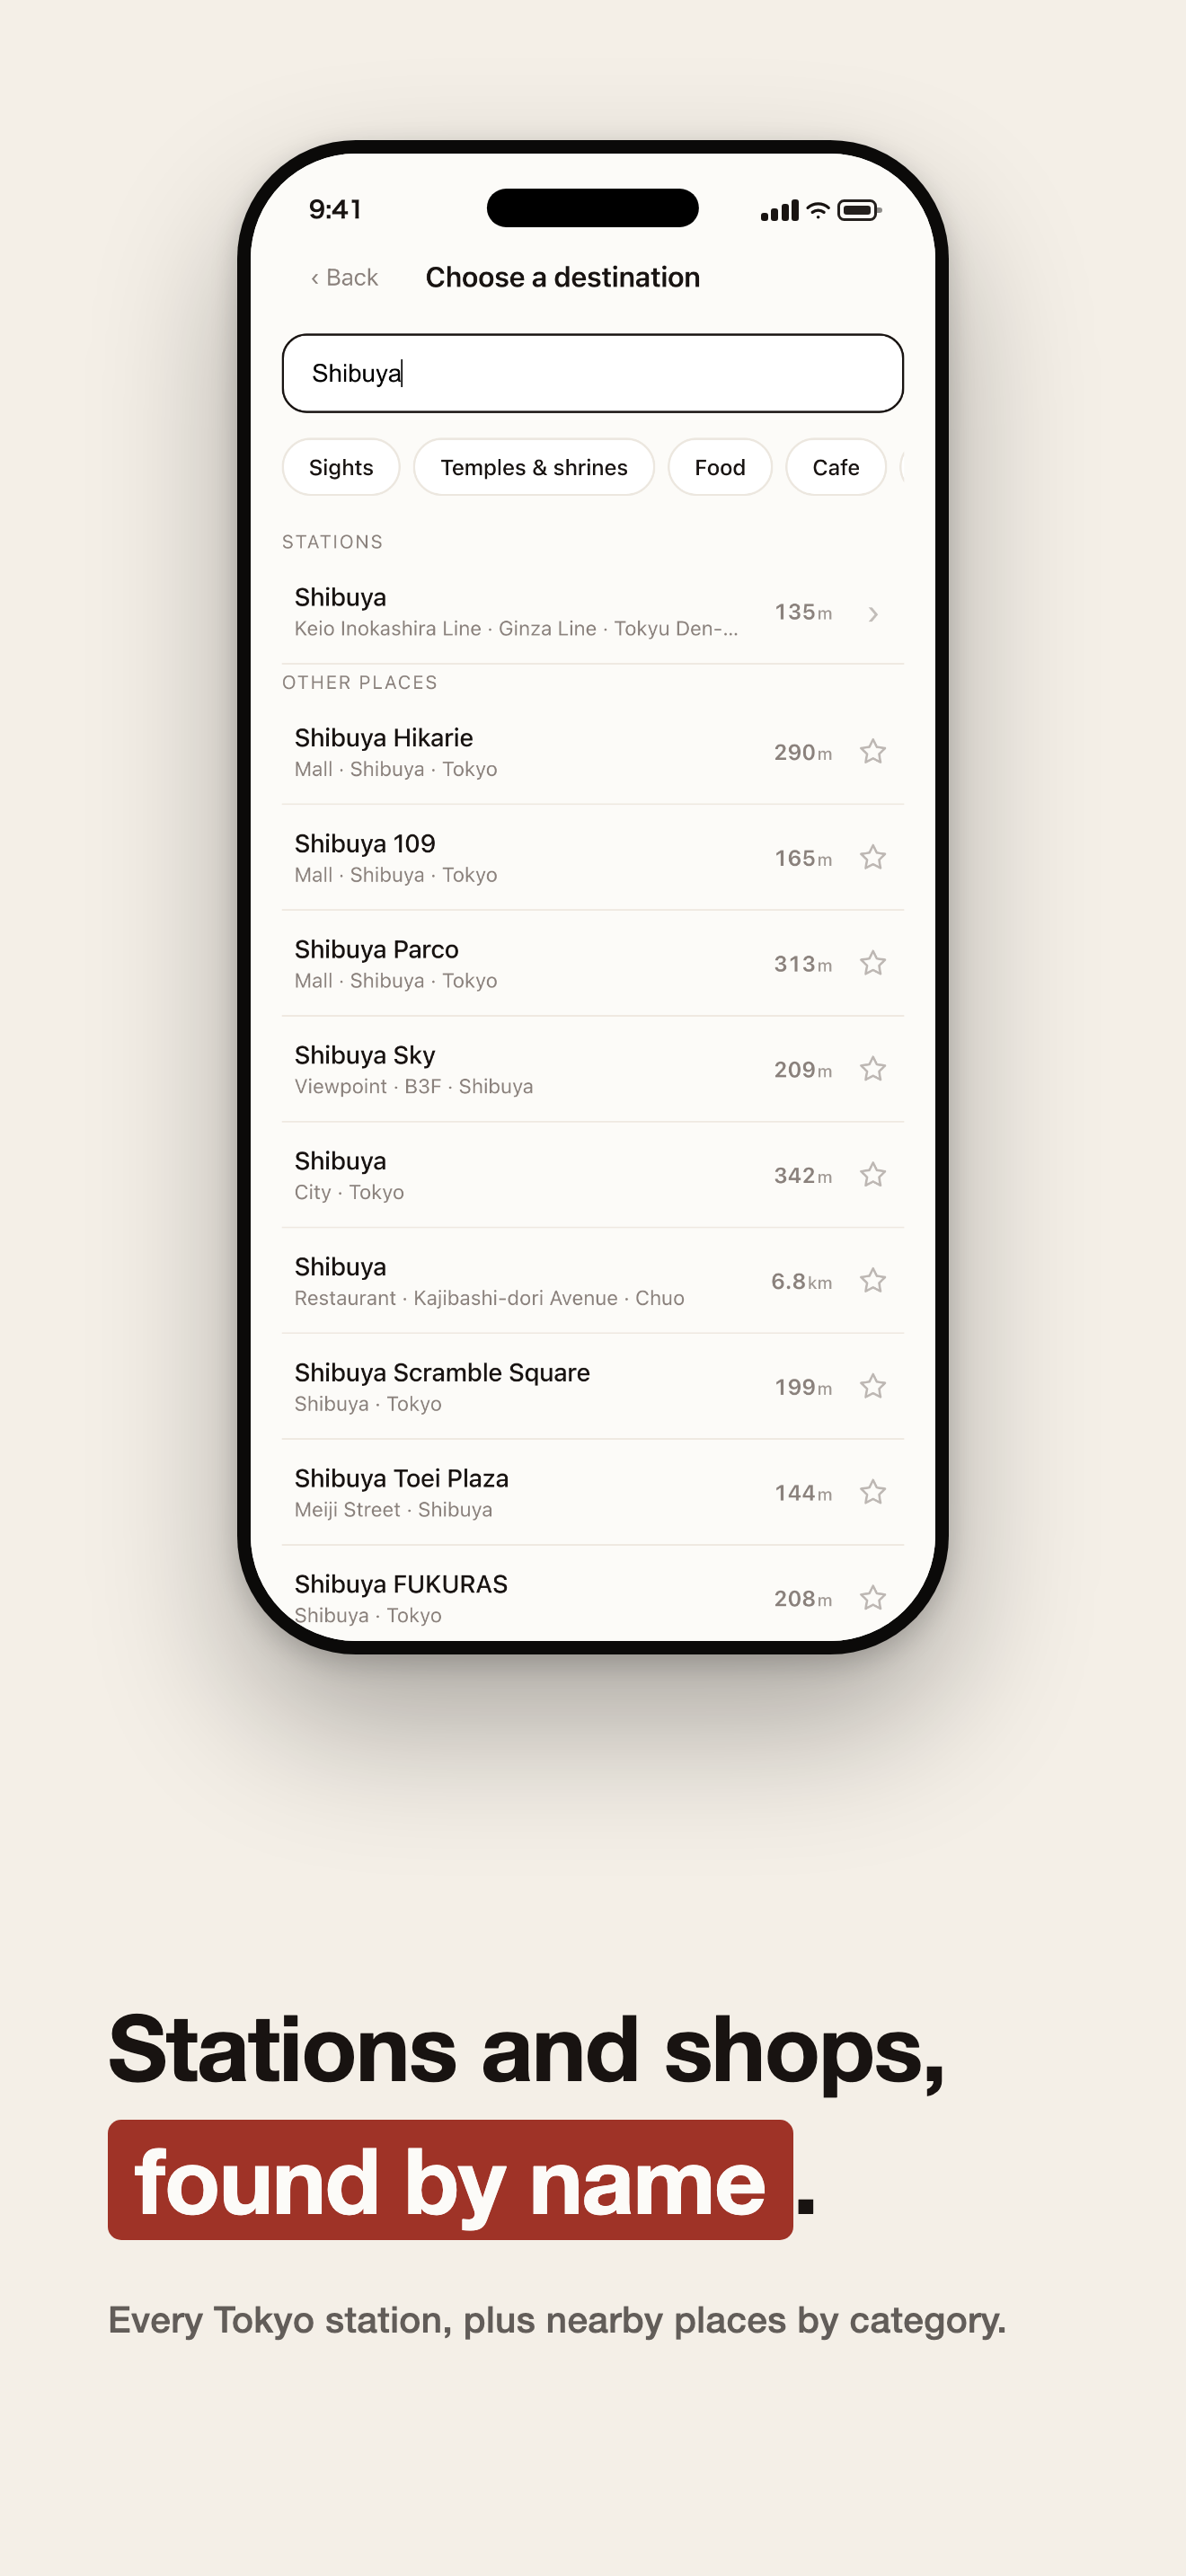
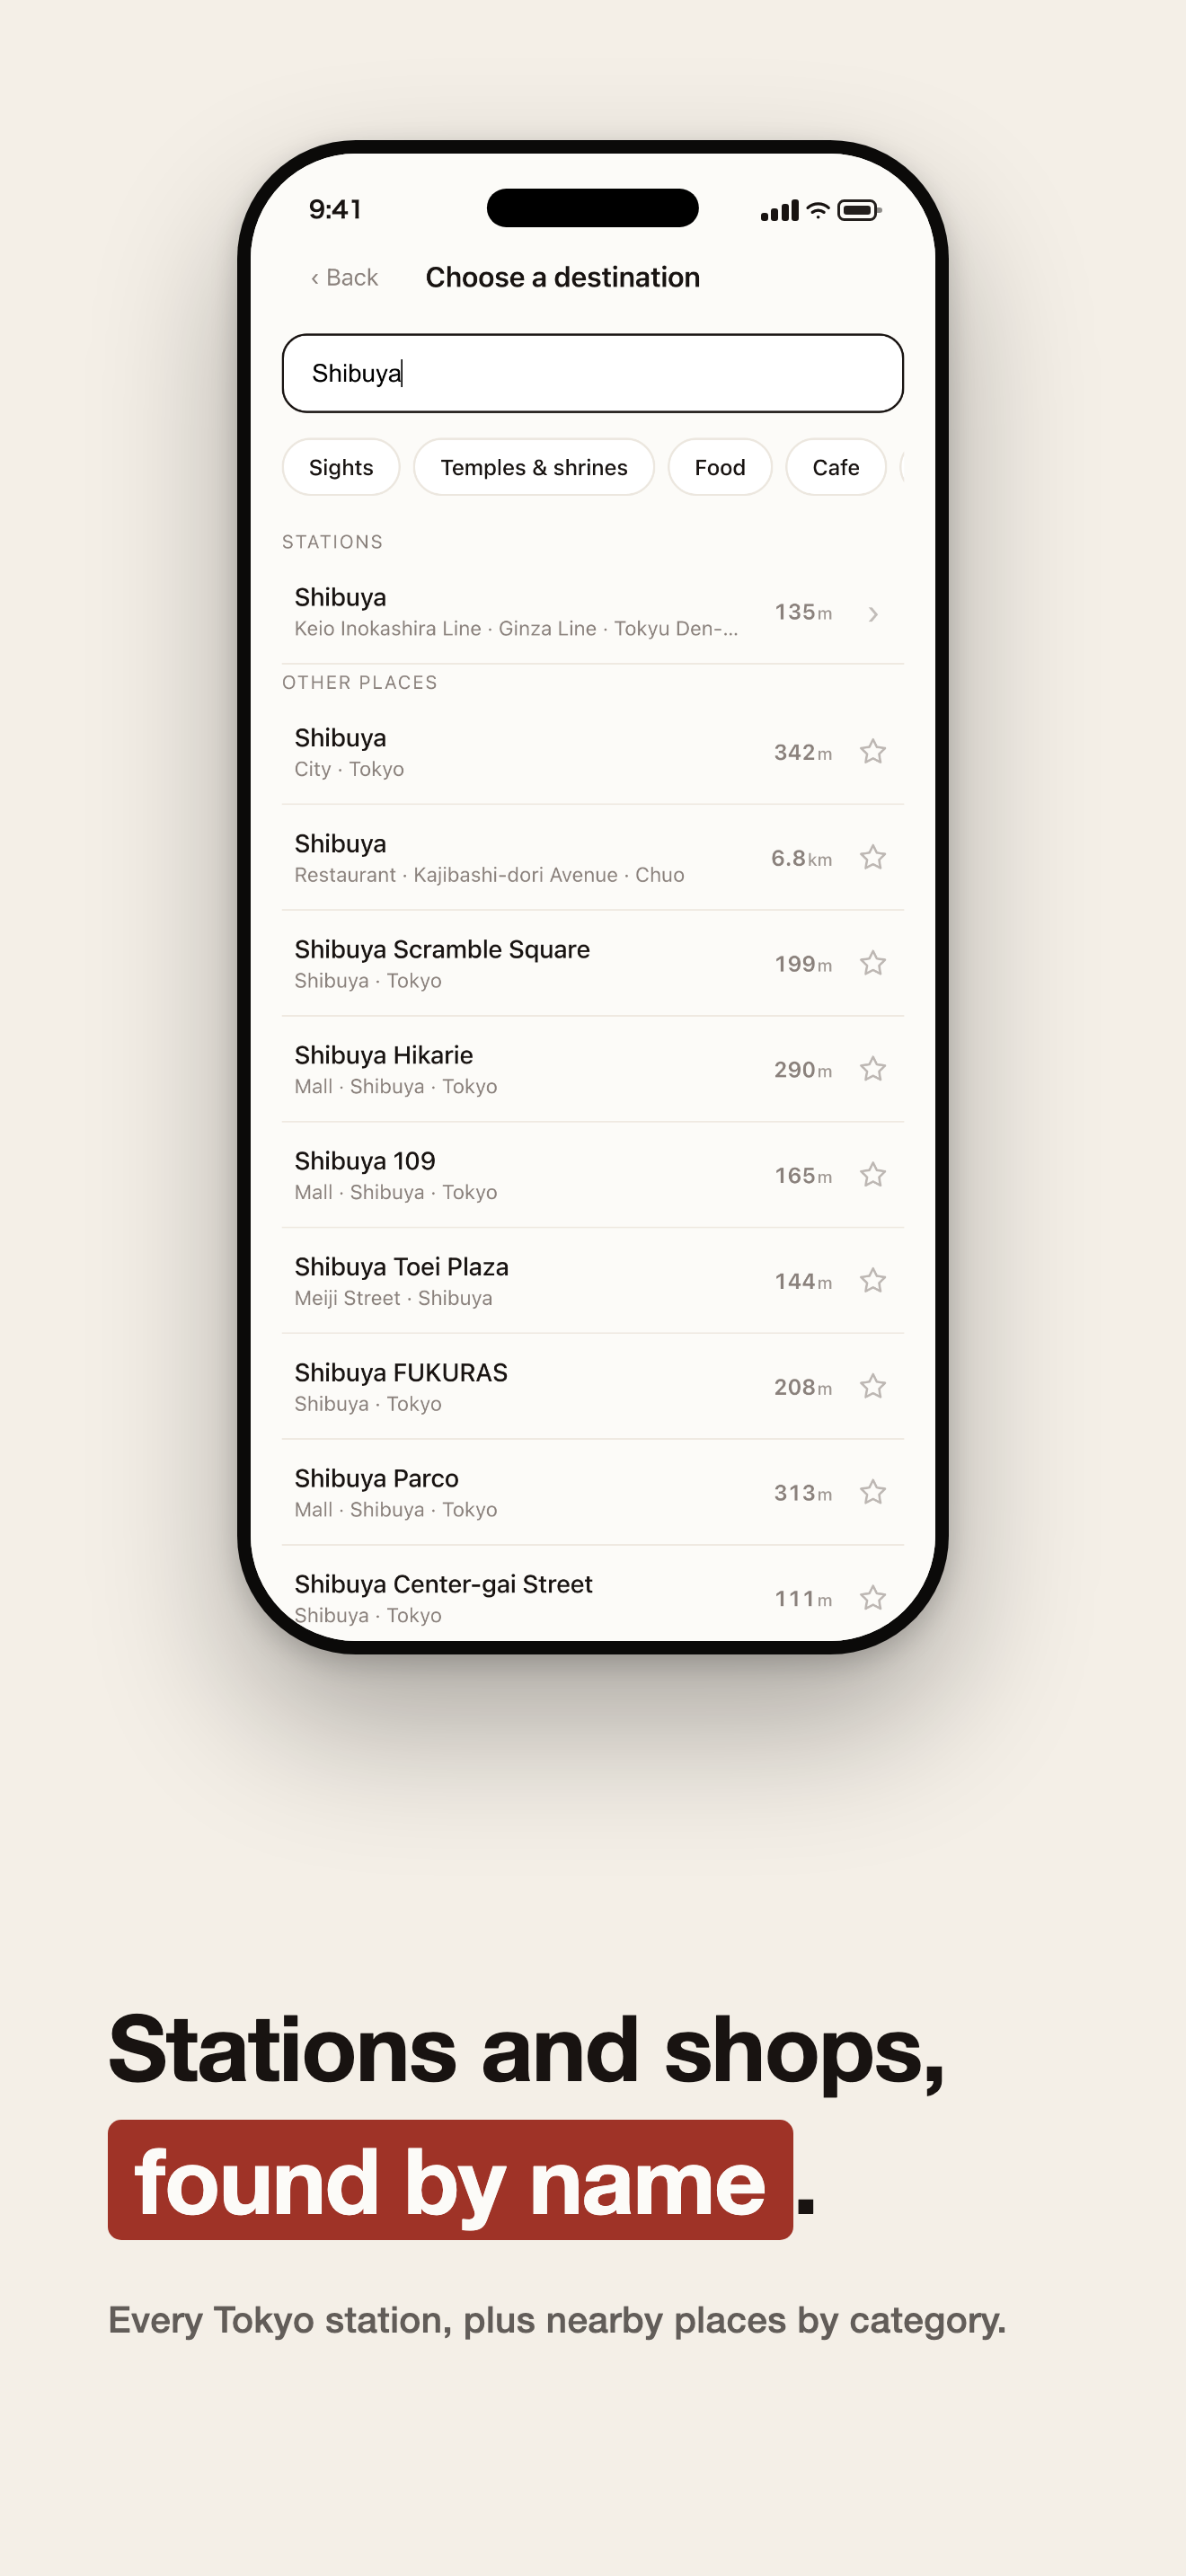
fix(search): レビューで判明した退行を修正（昇格の廃止・取得上限・重複排除）
マージ前レビューで、前コミットが main より悪化させている点が確認された。
原因は「観光地を +2 で昇格させる」設計そのもの。名前の一致度を壊していた。

1. スコアだけで全体を並べ替えており、距離も関連度も見ていなかった。
   実測: "Tokyo Tower" → 1位 Cerulean Tower Tokyo Hotel（本物が転落）、
   "Imperial Palace" → 5〜10位が海外の Imperial Palace Hotel（最大 9,146km）、
   "pharmacy" → 1位がトロントの地下鉄駅（10,344km）、
   "Ueno Park" → 1位 UENO PARK GUEST HOUSE で本物が圏外。
   → 昇格を廃止し、降格のみにした。名前の一致度は Photon の関連度が
     持っているので崩さない。安定ソートなので降格対象以外は元の順のまま。

2. 医療・警察・消防・役所を降格していた。旅行者が本当に困ったときに
   探すのはまさにそれで、危険。実測で "police" は警察博物館が、
   "hospital" は "Hospital Building C" が本物の病院より上に出ていた。
   → 降格対象から除外。都庁の展望室や国会議事堂も観光の行き先なので
     役所・議事堂・裁判所も外した。

3. Overpass の `out center 250` は「最寄り250件」ではなく
   「type→id 昇順の先頭250件」＝ OSM に古くから登録されている250件だった。
   渋谷の飲食店は範囲内に967件あり、最寄り24件のうち18件が欠落。
   way は一件も届かない。2013年以降に登録された店は永久に出なかった。
   → 件数上限を撤廃し、半径で抑えてこちらで距離順に並べる。
     密度の高い飲食店・カフェ・コンビニは半径 800m に（渋谷で 13.5秒 →
     1.7秒。表示は24件で 100m 圏に収まるため失うものは無い）。

4. 名前の無い地物は表示名がカテゴリ名で全部同じになるため、新設した
   重複排除が別々のトイレを軒並み消していた（上野公園で81件中46件）。
   → 名前のある地物だけを畳むようにした。

5. 神社まで「寺」と表示していた（カテゴリ id が POI_LABELS の 'temple' と
   衝突）。→ id を 'worship' に変え、religion タグから神社／寺を判定する。

あわせて:
- 遠方の例外に天井（150km）を設けた。日帰り圏は残る
- 併設設備（シェアサイクル・駐車場等）の種別を畳み込みで優先しないよう
  にした。「Tokyo Tower」が「レンタサイクル」と表示されていた
- 観光スポットの著名さから tourism=attraction を外した。カテゴリの
  絞り込み条件に含まれており、美術館や展望台を不当に下げていた

diff --git a/src/lib/geocoding.ts b/src/lib/geocoding.ts
@@ -176,7 +176,31 @@ const KEY_RANK: Record<string, number> = {
   highway: 1,
   emergency: 1,
 };
-const keyRank = (k?: string): number => (k ? (KEY_RANK[k] ?? 2) : 0);
+/**
+ * 施設に併設された設備。ランドマークと同じ名前が付いていることが多いので、
+ * 畳むときにこちらの種別を採ってはいけない。
+ * （東京タワーの脇のシェアサイクルポートも「東京タワー」という名前で、
+ *   amenity は man_made より上位のため、本物が「レンタサイクル」と表示された）
+ */
+const SUB_FEATURE_VALUES = new Set([
+  'bicycle_rental',
+  'parking',
+  'parking_entrance',
+  'atm',
+  'toilets',
+  'drinking_water',
+  'telephone',
+  'shelter',
+  'charging_station',
+  'bench',
+  'smoking_area',
+  'locker',
+]);
+
+const keyRank = (k?: string, v?: string): number => {
+  if (v && SUB_FEATURE_VALUES.has(v)) return 1;
+  return k ? (KEY_RANK[k] ?? 2) : 0;
+};
 
 /**
  * 重複判定用の名前キー。大小文字・空白・区切り記号に加えて、
@@ -205,51 +229,51 @@ const DEDUPE_AREA_M = 2000;
 // 別々の対象だと分かっていても、まったく同じ名前がずらりと並ぶと一覧は読めない。
 // 同名はこの件数までに留める（チェーン店なら近い順に数件、で十分役に立つ）。
 const MAX_PER_NAME = 3;
-// ここから先は「東京に観光で来た人が行きたい場所」を上に出すための重み付け。
-// 朱雀は旅行者のためのコンパスなので、同じくらい名前が一致するなら、
-// 観光で向かう場所を、地元の人しか用の無い施設より先に出す。
+// 東京に観光で来た人のためのアプリなので、名前で検索したときに
+// 「そもそも誰も行かない施設」を下に送る。
+//
+// 降格しかしない。観光地を昇格させてはいけない——一度そうしたところ、
+// 「Tokyo Tower」で Cerulean Tower Tokyo Hotel が 1 位になり、本物の
+// 東京タワーが押し出された。「Imperial Palace」では海外の Imperial Palace
+// Hotel が並び、「pharmacy」ではトロントの地下鉄駅が 1 位に来た。
+// 名前がどれだけ一致しているかは Photon の関連度が持っているので、そこは崩さない。
 
-/** 旅行者が「向かいたい」場所。 */
-const TOURIST_HIGH = new Set([
-  'attraction', 'viewpoint', 'museum', 'gallery', 'artwork', 'theme_park',
-  'place_of_worship', 'shrine', 'temple', 'monument', 'memorial', 'castle',
-  'ruins', 'garden', 'park', 'zoo', 'aquarium', 'theatre', 'tower',
-  'observation_tower', 'mall', 'department_store', 'marketplace',
-  // 宿は旅行者にとって最重要の目的地のひとつ。
-  'hotel', 'hostel', 'guest_house', 'ryokan', 'onsen', 'public_bath',
-  'station',
-]);
-
-/** 用事があるのは地元の人だけ、という施設。消しはせず後ろに回す。 */
+/**
+ * 名前で検索してたどり着きたい人がまずいない施設。
+ *
+ * 医療・警察・消防は入れないこと。旅行者が本当に困ったときに探すのは
+ * まさにそれで、下に送ると危険。同じ理由で役所・議事堂・裁判所も入れない
+ * （都庁の展望室も国会議事堂も観光の行き先になる）。
+ */
 const TOURIST_LOW = new Set([
   'school', 'kindergarten', 'childcare', 'college', 'driving_school',
-  'hospital', 'clinic', 'doctors', 'dentist', 'veterinary', 'nursing_home',
-  'social_facility', 'townhall', 'courthouse', 'police', 'prison',
-  'fire_station', 'government', 'company', 'office', 'industrial',
-  'warehouse', 'garages', 'depot', 'car_repair', 'car_wash', 'works',
-  'funeral_directors', 'storage_rental', 'recycling', 'waste_disposal',
+  'veterinary', 'nursing_home', 'social_facility', 'prison',
+  'company', 'office', 'industrial', 'warehouse', 'garages', 'depot',
+  'car_repair', 'car_wash', 'works', 'funeral_directors', 'storage_rental',
+  'recycling', 'waste_disposal',
 ]);
 
 /**
- * 並べ替えの重み。大きいほど上。
- * Photon の関連度は同点時の順序として残すので（sort は安定）、
- * ここでは「観光で行くか」「英語で読めるか」だけを見る。
+ * 後ろに送る度合い（0 なら据え置き）。安定ソートと組み合わせるので、
+ * 降格対象以外の並びは Photon の関連度のまま変わらない。
  */
-function touristScore(place: Place, lang: Lang): number {
-  let score = 0;
-  const v = place.category;
-  if (v && TOURIST_HIGH.has(v)) score += 2;
-  else if (v && TOURIST_LOW.has(v)) score -= 3;
+function demotion(place: Place, lang: Lang): number {
+  let d = 0;
+  if (place.category && TOURIST_LOW.has(place.category)) d += 2;
   // 英語表示で、ラテン文字を一つも含まない名前は読めない。
   // 落としはしない（OSM に英語名が無いだけで、場所自体は有用なため）。
-  if (lang === 'en' && !/[A-Za-z]/.test(place.name)) score -= 2;
-  return score;
+  if (lang === 'en' && !/[A-Za-z]/.test(place.name)) d += 1;
+  return d;
 }
 
 // 遠方の同名候補を落とす距離。ただし判定は同名グループ単位で行うこと。
 // 一律に切ると成田空港・鎌倉・高尾山・横浜駅のように圏外にしか存在しない
 // 目的地がまるごと 0 件になり、「その場所は無い」と区別が付かなくなる。
 const MAX_DISTANCE_M = 25_000;
+// 圏外にしか無いなら遠くても返す、という上の例外にも天井は要る。
+// 「pharmacy」で 10,344km 先のトロントの駅が 1 位に来ていた。
+// 日本国内の日帰り圏（箱根 78km・富士山 100km）は残る値。
+const HARD_MAX_DISTANCE_M = 150_000;
 
 /**
  * 畳み込みの単位。種別をまたいだ統合はしない。
@@ -323,7 +347,10 @@ export async function searchPlaces(
       lat: coords[1],
       lon: coords[0],
     };
-    if (near) place.distanceM = distance(near, place);
+    if (near) {
+      place.distanceM = distance(near, place);
+      if (place.distanceM > HARD_MAX_DISTANCE_M) continue;
+    }
     // 駅と地区は「面」なので要素ごとに代表点が大きくぶれる。店舗は狭く。
     const radius = kind === 'poi' ? DEDUPE_M : DEDUPE_AREA_M;
 
@@ -338,7 +365,7 @@ export async function searchPlaces(
     if (dup) {
       if (!dup.place.context && place.context) dup.place.context = place.context;
       // 説明力の高い種別表記を残す（assembly_point より shop=mall）。
-      const rank = keyRank(p.osm_key);
+      const rank = keyRank(p.osm_key, p.osm_value);
       if (rank > dup.rank) {
         dup.place.category = place.category;
         dup.rank = rank;
@@ -354,7 +381,7 @@ export async function searchPlaces(
       }
       continue;
     }
-    entries.push({ place, kind, rank: keyRank(p.osm_key) });
+    entries.push({ place, kind, rank: keyRank(p.osm_key, p.osm_value) });
   }
   const out = entries.map((e) => e.place);
 
@@ -384,9 +411,9 @@ export async function searchPlaces(
     ordered.push(...list.slice(0, MAX_PER_NAME));
   }
 
-  // 観光での有用性で並べ替える。sort は安定なので、同点なら Photon の
-  // 関連度順がそのまま残る（「名前がどれだけ一致するか」は関連度側の仕事）。
-  ordered.sort((a, b) => touristScore(b, lang) - touristScore(a, lang));
+  // 学校や車庫など、名前で探す人がいない施設だけを後ろに送る。
+  // sort は安定なので、それ以外の並びは Photon の関連度のまま残る。
+  ordered.sort((a, b) => demotion(a, lang) - demotion(b, lang));
   return ordered.slice(0, 10);
 }
 

diff --git a/src/lib/nearby.ts b/src/lib/nearby.ts
@@ -23,6 +23,13 @@ export interface NearbyCategory {
    * コンビニやトイレは純粋に近い順でよいので既定は無効。
    */
   byNotability?: boolean;
+  /**
+   * 検索半径（m）。既定は RADIUS_M。
+   * 飲食店のように密度の高いカテゴリは、渋谷だと 1.5km 圏に 967 件あって
+   * 取得に 13 秒かかる。表示は 24 件で、渋谷では 100m 圏で埋まってしまうので、
+   * 半径を詰めても失うものは無く、待ち時間だけが減る。
+   */
+  radiusM?: number;
 }
 
 // 徒歩コンパスで「今すぐ向かいたい」場所を厳選。
@@ -36,15 +43,15 @@ export const NEARBY_CATEGORIES: NearbyCategory[] = [
     byNotability: true,
   },
   {
-    id: 'temple',
+    id: 'worship',
     ja: '寺社',
     en: 'Temples & shrines',
     filter: '["amenity"="place_of_worship"]',
     byNotability: true,
   },
-  { id: 'food', ja: '飲食店', en: 'Food', filter: '["amenity"~"^(restaurant|fast_food)$"]' },
-  { id: 'cafe', ja: 'カフェ', en: 'Cafe', filter: '["amenity"="cafe"]' },
-  { id: 'convenience', ja: 'コンビニ', en: 'Convenience', filter: '["shop"="convenience"]' },
+  { id: 'food', ja: '飲食店', en: 'Food', filter: '["amenity"~"^(restaurant|fast_food)$"]', radiusM: 800 },
+  { id: 'cafe', ja: 'カフェ', en: 'Cafe', filter: '["amenity"="cafe"]', radiusM: 800 },
+  { id: 'convenience', ja: 'コンビニ', en: 'Convenience', filter: '["shop"="convenience"]', radiusM: 800 },
   { id: 'shopping', ja: 'ショッピング', en: 'Shopping', filter: '["shop"~"^(mall|department_store)$"]' },
   { id: 'park', ja: '公園', en: 'Parks', filter: '["leisure"="park"]', keepUnnamed: true },
   { id: 'toilet', ja: 'トイレ', en: 'Toilets', filter: '["amenity"="toilets"]', keepUnnamed: true },
@@ -132,19 +139,18 @@ const OVERPASS_ENDPOINTS = [
   'https://overpass-api.de/api/interpreter',
 ];
 const RADIUS_M = 1500;
-const FETCH_LIMIT = 250;
 
 /**
- * その地物がどれだけ知られているか。Wikipedia/Wikidata に項目があるか、
- * 観光地として登録されているかで測る。
+ * その地物がどれだけ知られているか。Wikipedia / Wikidata に項目があるかで測る。
  * 浅草で「寺社」を開いたとき、名も無い祠が距離順に並ぶより、
  * 浅草寺・浅草神社が先に出てほしい——旅行者向けのアプリなので。
+ *
+ * tourism=attraction は使わない。「観光スポット」カテゴリの絞り込み条件が
+ * すでに attraction を含んでいるため、著名さではなく単に美術館や展望台より
+ * attraction を優遇するだけの偏りになる。
  */
 function notability(tags: Record<string, string>): number {
-  let n = 0;
-  if (tags.wikidata || tags.wikipedia) n += 2;
-  if (tags.tourism === 'attraction') n += 1;
-  return n;
+  return tags.wikidata || tags.wikipedia ? 2 : 0;
 }
 
 async function runOverpass(
@@ -215,22 +221,25 @@ export async function searchNearby(
   lang: Lang,
   signal?: AbortSignal
 ): Promise<Place[]> {
-  const around = `(around:${RADIUS_M},${near.lat},${near.lon})`;
+  const around = `(around:${cat.radiusM ?? RADIUS_M},${near.lat},${near.lon})`;
   const f = cat.filter;
   // relation まで拾うこと。大きな寺社・公園は面（way / マルチポリゴン）で
   // 表されており、node だけでは欠落する。
-  // 件数の上限は大きく取る。Overpass は node → way → relation の順に返すため、
-  // 上限が小さいと小さな祠のノードだけで埋まり、肝心の浅草寺（way）に
-  // 届かないまま打ち切られてしまう（実際 60 件では届いていなかった）。
+  // 件数で打ち切ってはいけない。Overpass は「近い順」ではなく
+  // type → id の昇順で返すので、`out center 250` は「最寄り250件」ではなく
+  // 「OSM に古くから登録されている250件」になる。渋谷の飲食店は範囲内に
+  // 967件あり、上限を付けると最寄り24件のうち18件が落ちていた（way は
+  // 一件も届かない）。範囲は半径 1.5km で押さえてあるので、全件取って
+  // こちらで距離順に並べる。
   const query =
     `[out:json][timeout:25];` +
     `(node${f}${around};way${f}${around};relation${f}${around};);` +
-    `out center ${FETCH_LIMIT};`;
+    `out center;`;
 
   const data = await runOverpass(query, signal);
 
   const seen = new Set<string>();
-  const out: { place: Place; note: number }[] = [];
+  const out: { place: Place; note: number; named: boolean }[] = [];
   for (const el of data.elements ?? []) {
     const lat = el.lat ?? el.center?.lat;
     const lon = el.lon ?? el.center?.lon;
@@ -242,11 +251,21 @@ export async function searchNearby(
     const named = tags.name || tags['name:ja'] || tags['name:en'];
     if (!named && !cat.keepUnnamed) continue;
     out.push({
+      named: !!named,
       place: {
         id,
         name: displayName(tags, fallbackName, lang),
         context: nearbyContext(tags, lang),
-        category: cat.id,
+        // 寺社は神社と寺を取り違えないよう religion タグから判定する
+        // （まとめて「寺」と出すと神社を仏教寺院だと言うことになる）。
+        category:
+          cat.id === 'worship'
+            ? tags.religion === 'shinto'
+              ? 'shrine'
+              : tags.religion === 'buddhist'
+                ? 'temple'
+                : 'place_of_worship'
+            : cat.id,
         lat,
         lon,
         distanceM: distance(near, { lat, lon }),
@@ -261,6 +280,10 @@ export async function searchNearby(
     o.note - (o.place.distanceM ?? 0) / 1000;
   out.sort((a, b) => rank(b) - rank(a));
 
+  // 名前の無い地物は畳まない。名前が無いものは表示名がカテゴリ名
+  // （「トイレ」等）で全部同じになるため、名前で重複判定すると
+  // 別々のトイレが軒並み消える（上野公園で 81 件中 46 件が消えていた）。
+
   // 同じ対象が node と way の二重で登録されていることがある
   // （金王八幡宮が 419m と 438m に 2 件など）。近接した同名は 1 件に畳む。
   // 近接していて、片方の名前がもう片方の頭から一致するなら同じ対象とみなす。
@@ -268,14 +291,18 @@ export async function searchNearby(
   // 種別語が付いたり付かなかったりするため、完全一致では畳めない。
   // 前方一致に限るので「雷門」と「仲見世商店街」のような別物は残る。
   const picked: Place[] = [];
-  for (const { place } of out) {
-    const key = nameKey(place.name);
-    const dup = picked.some((p) => {
-      if (distance(p, place) >= 250) return false;
-      const k = nameKey(p.name);
-      return k === key || k.startsWith(key) || key.startsWith(k);
-    });
-    if (dup) continue;
+  const namedPicked: Place[] = [];
+  for (const { place, named } of out) {
+    if (named) {
+      const key = nameKey(place.name);
+      const dup = namedPicked.some((p) => {
+        if (distance(p, place) >= 250) return false;
+        const k = nameKey(p.name);
+        return k === key || k.startsWith(key) || key.startsWith(k);
+      });
+      if (dup) continue;
+      namedPicked.push(place);
+    }
     picked.push(place);
     if (picked.length >= 24) break;
   }